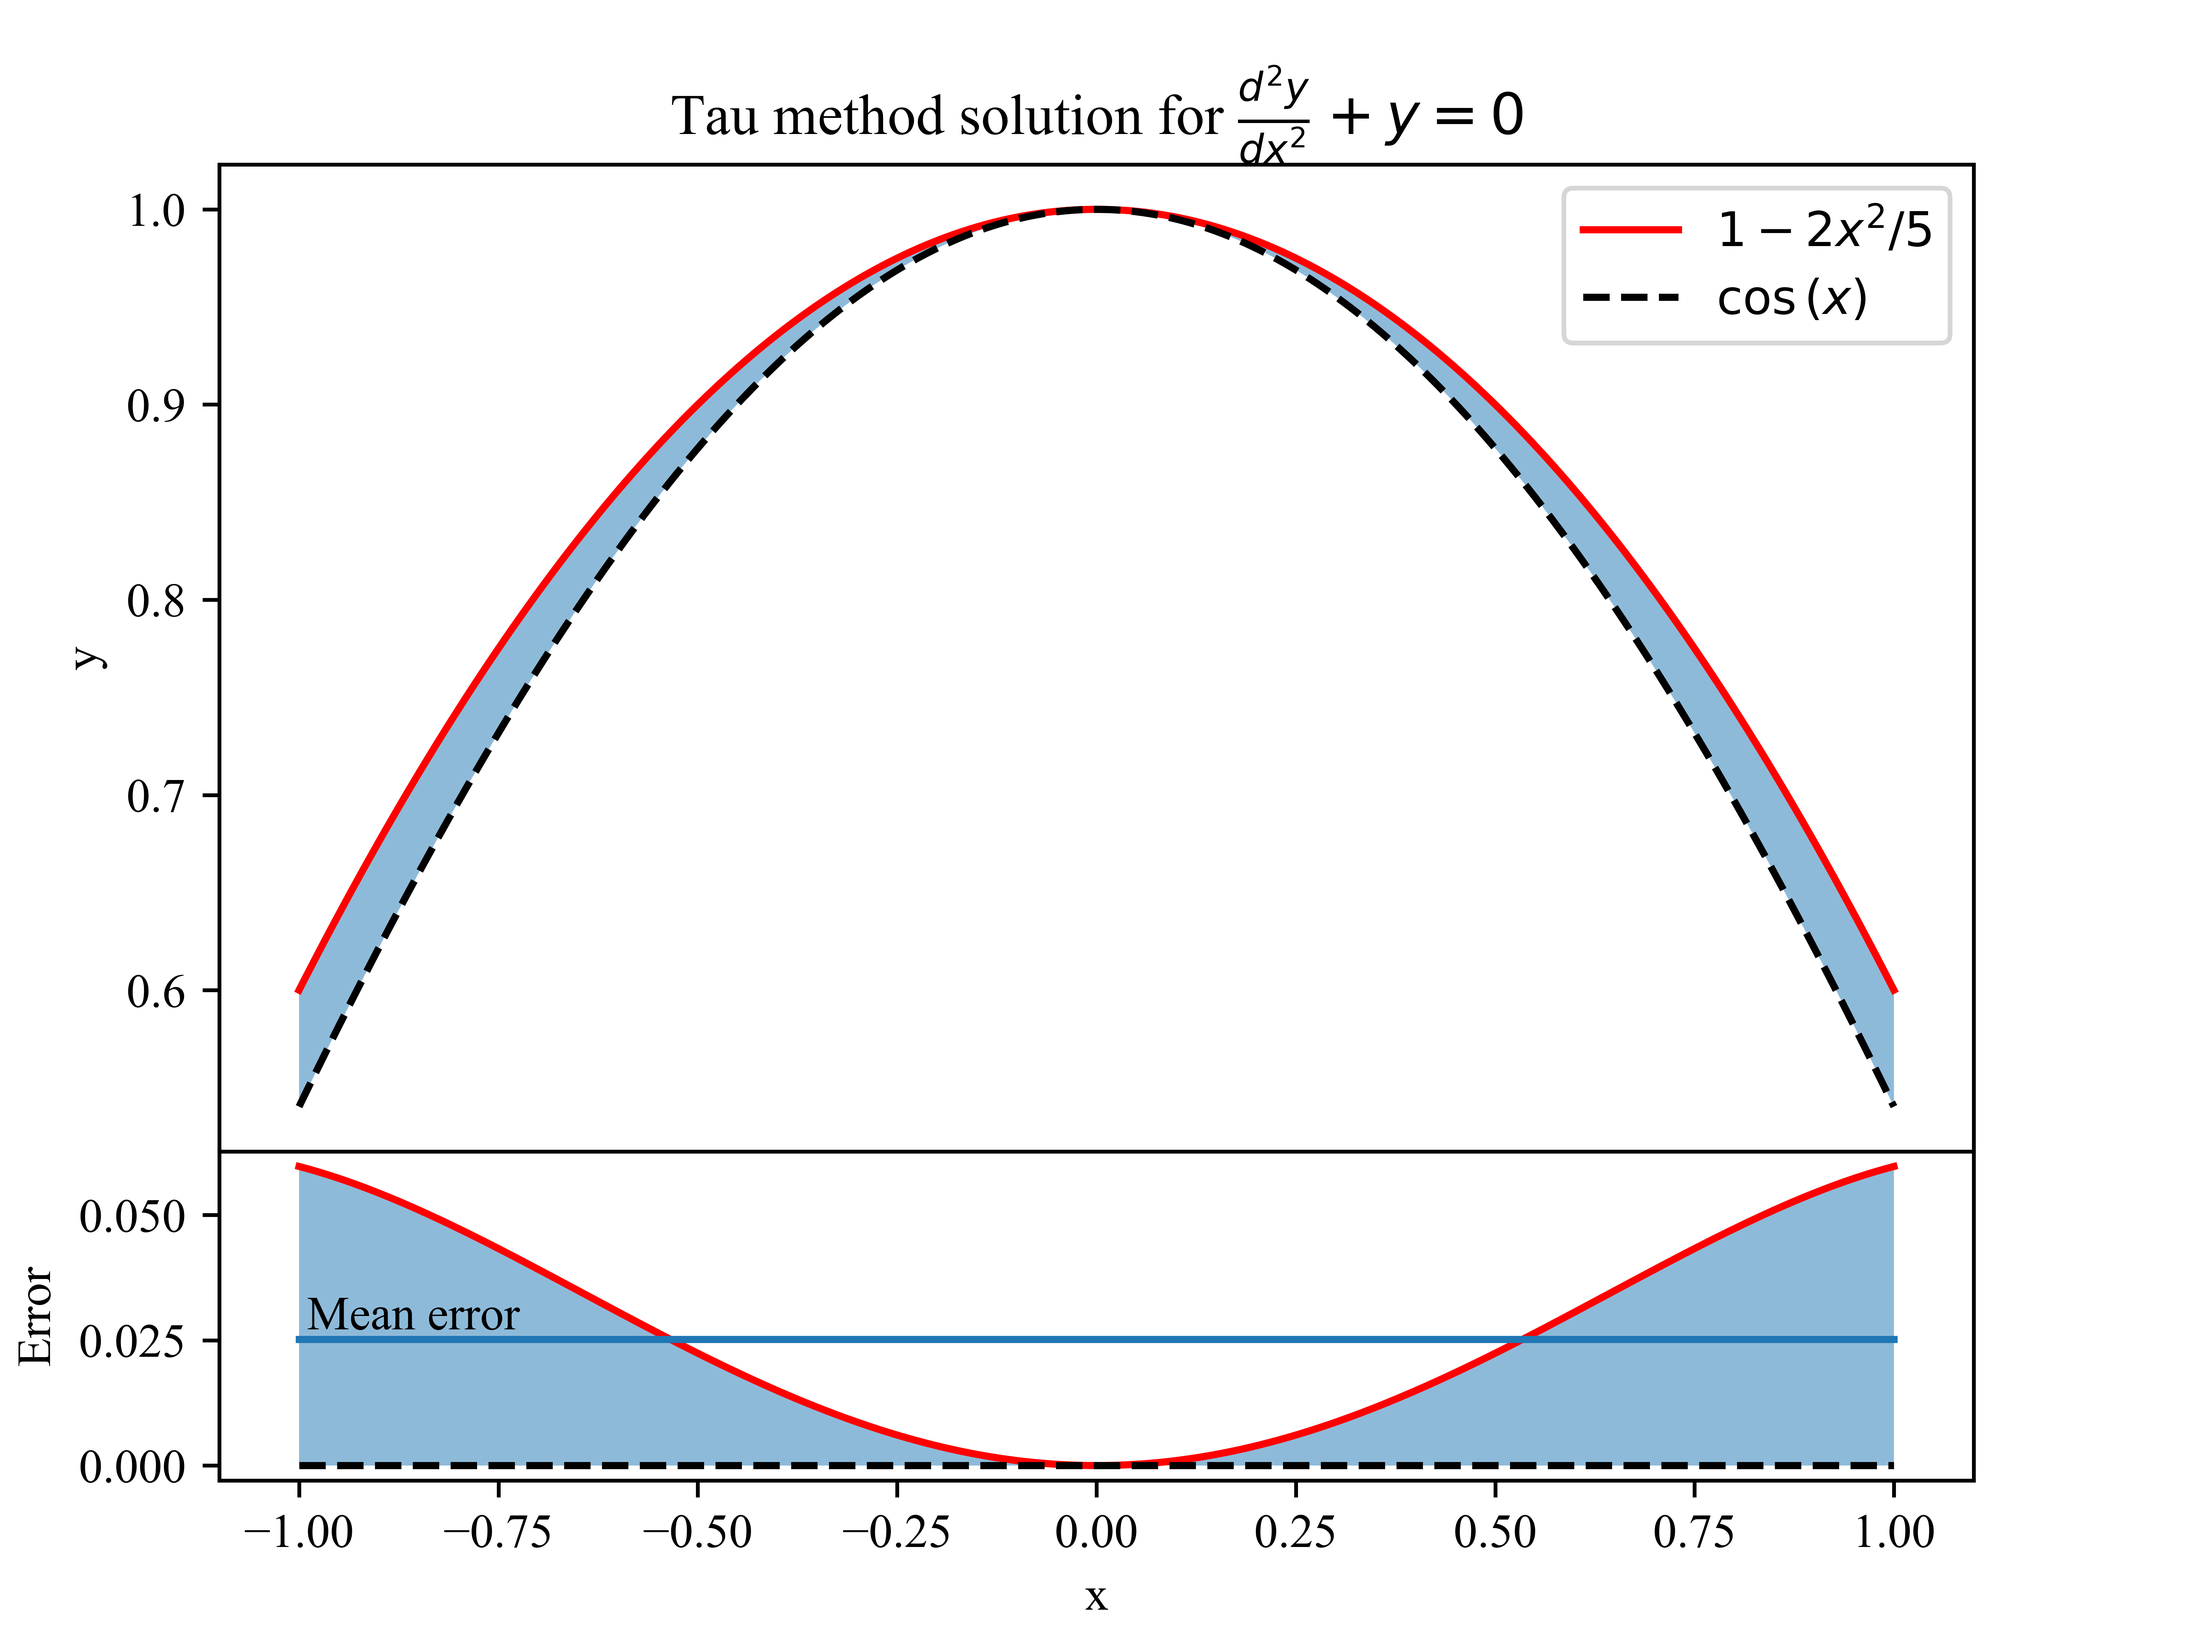
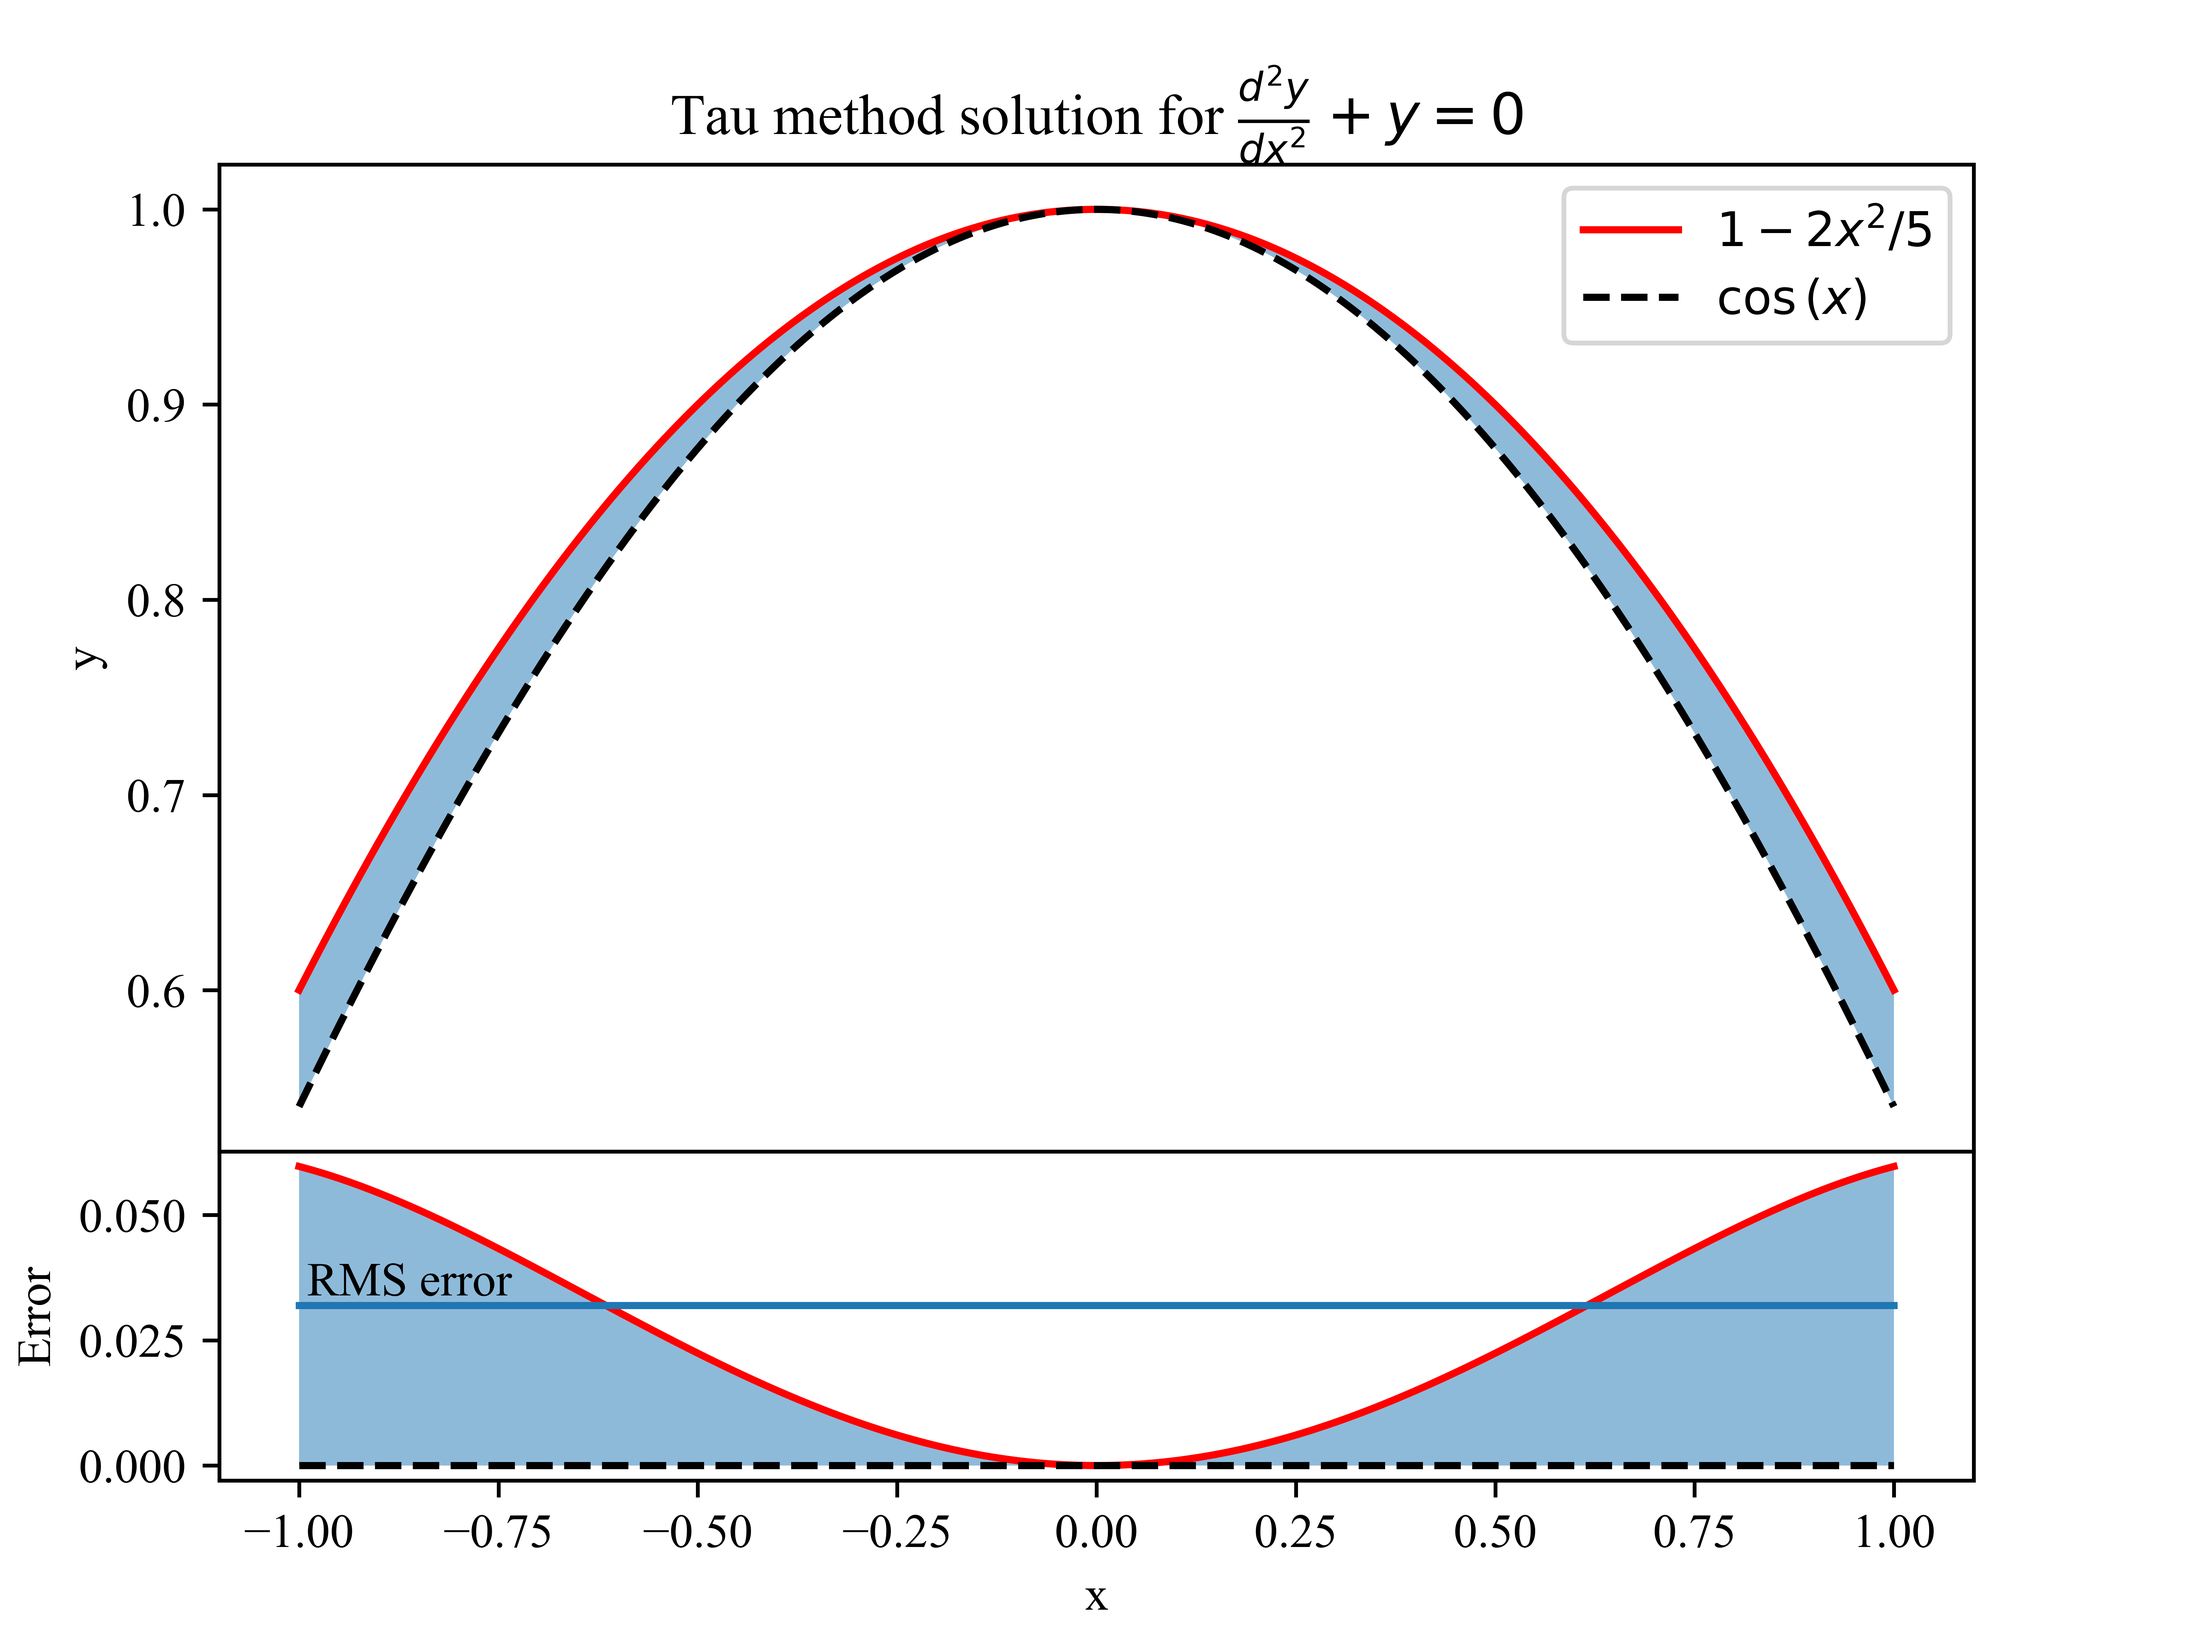
Fixed errors to be RMSE

Changed region(s): [[0.125, 0.75, 0.875, 0.8438]]

diff --git a/Cosine_approx.py b/Cosine_approx.py
@@ -4,6 +4,8 @@ from numpy.polynomial.chebyshev import chebvander
 from scipy.integrate import quad
 from scipy.optimize import curve_fit
 
+plt.rcParams["font.family"] = "Times New Roman"
+
 n = 2
 x_j = np.array([0, 0])
 alpha_j = np.array([0, 1])
@@ -45,9 +47,9 @@ def solve(N, x_y):
         return a_i @ chebvander(ts, N - 1).T
 
     def approx_err(x):
-        return approx(x) - np.cos(x)
+        return (approx(x) - np.cos(x))**2
 
-    mean_err = quad(approx_err, 0, 1)[0]
+    mean_err = np.sqrt(quad(approx_err, 0, 1)[0])
 
     if x_y:
         return x, approx(x), mean_err
@@ -64,12 +66,18 @@ def solve(N, x_y):
 # plt.plot(x, np.cos(x))
 # plt.show()
 
+def sf(x, sig_figs):
+    leading_order = 10**int(np.floor(np.log10(np.abs(x))))
+    terms = np.round(x/leading_order, sig_figs)
+    return terms*leading_order
+
+
 
 # U_N plot
 plt.figure()
 plt.semilogy()
 
-Ns = np.arange(2, 30)
+Ns = np.arange(2, 250)
 solves = np.vectorize(solve)
 mean_err_n = solves(Ns, x_y=False)
 
@@ -86,20 +94,40 @@ Ns = Ns[mask]
 mean_err_n = mean_err_n[mask]
 
 
-fp_err = 8
-print(mean_err_n[:fp_err])
+fp_err = 11
 a_fit, b_fit = curve_fit(exp_fit_log, Ns[:fp_err], np.log(mean_err_n[:fp_err]))[0]
 
-N_cont = np.array([Ns[0], Ns[fp_err]])
-label = str(round(a_fit, 2)) + r" $exp($" + str(-round(b_fit, 2)) + r"$N)$"
+print("Error half life = " + str(np.log(2)/b_fit))
+print("Decay = " + str(100 - 100*np.exp(-b_fit)) + "%")
+
+N_exp = np.array([Ns[0], Ns[fp_err]])
+label_exp = str(sf(a_fit, 2)) + r" $exp($" + str(-sf(b_fit, 2)) + r"$N)$"
 
 plt.plot(
-    N_cont, exp_fit(N_cont, a_fit, b_fit), label=label, linestyle="--", color="black"
+    N_exp, exp_fit(N_exp, a_fit, b_fit), label=label_exp, linestyle="--", color="black"
 )
+
+a_round, b_round = curve_fit(exp_fit_log, Ns[fp_err:], np.log(mean_err_n[fp_err:]))[0]
+
+N_round = np.array([Ns[fp_err], Ns[-1]])
+label_round = str(sf(a_round, 2)) + r" $exp($" + str(-sf(b_round, 2)) + r"$N)$"
+
+plt.plot(
+    N_round, exp_fit(N_round, a_round, b_round), label=label_round, linestyle=":", color="black"
+)
+
+
 plt.scatter(Ns, mean_err_n, color="red")
 
+midway_exp = np.sqrt(mean_err_n[0]*mean_err_n[fp_err])
+midway_round = np.sqrt(mean_err_n[fp_err]*mean_err_n[-1])
+
+plt.text(fp_err+10, midway_exp, "Exponential convergence")
+plt.text(0.5*(fp_err + Ns[-1])-15, midway_round*10**1.5, "Round off error")
+
 plt.xlabel(r"$N$")
-plt.ylabel("Mean Approximation Error")
+plt.ylabel("RMS Error")
 plt.title(r"Error in $U_N$ approximation")
 plt.legend()
+plt.savefig("U_N_approx_cosine.png", dpi=1000)
 plt.show()

diff --git a/U_N_Tau.py b/U_N_Tau.py
@@ -1,0 +1,90 @@
+import matplotlib.pyplot as plt
+import numpy as np
+from numpy.polynomial.chebyshev import chebvander
+from scipy.integrate import quad
+
+plt.rcParams["font.family"] = "Times New Roman"
+
+n = 2
+x_j = np.array([0, 0])
+alpha_j = np.array([0, 1])
+d_j = np.array([1, 0])
+L = 10
+
+assert len(alpha_j) == n & len(alpha_j) == len(d_j)
+
+# ODE
+gamma = 0.5
+omega_0 = 2
+
+
+# [0, L]
+def diff_mat(alpha, N):
+    D_matrix_T = np.zeros((N, N))
+    k = np.arange(1, N, 2)
+
+    for i in k:
+        D_matrix_T += np.diagflat(np.arange(i, N), i)
+    D_matrix = D_matrix_T.T
+    D_matrix[:, 0] /= 2
+
+    D_matrix *= 4 / L
+    return np.linalg.matrix_power(D_matrix, alpha)
+
+
+def solve(N, x_y, Big_mat):
+    Big_mat[:, -1] = (diff_mat(alpha_j[0], N) @ chebvander(-1, N - 1).T)[:, 0]
+    Big_mat[:, -2] = (diff_mat(alpha_j[1], N) @ chebvander(-1, N - 1).T)[:, 0]
+
+    Big_mat_inv = np.linalg.inv(Big_mat)
+
+    column_vec = np.zeros(N)
+    column_vec[-1], column_vec[-2] = d_j[0], d_j[1]
+
+    a_i = column_vec @ Big_mat_inv
+
+    x = np.linspace(0, L, 250)
+
+    def approx(x):
+        ts = 2 * x / L - 1
+        return a_i @ chebvander(ts, N - 1).T
+    
+    def analytic(x):
+        decay = np.exp(-gamma*x)
+        oscillation = np.cos(omega_0*x)
+        return decay*oscillation
+
+    def approx_err(x):
+        return approx(x) - analytic(x)
+
+    mean_err = quad(approx_err, 0, 1)[0]
+
+    if x_y:
+        return x, approx(x), mean_err
+    else:
+        return mean_err
+
+
+# U_3 plot
+N = 50
+ODE = diff_mat(2, N) + 2 * gamma * diff_mat(1, N) + omega_0**2 * np.eye(N)
+x, y, mean_err = solve(N, x_y=True, Big_mat=ODE)
+print(mean_err)
+exp_decay = np.exp(-gamma * x)
+
+
+plt.figure()
+
+plt.plot(x, exp_decay, linestyle="--", color="black", label=r"$y = e^{-\gamma x}$")
+plt.plot(x, -exp_decay, linestyle="--", color="black")
+plt.fill_between(x, -exp_decay, exp_decay, alpha=0.5, color="blue")
+plt.plot(x, y, color="red", label="Damped oscillator")
+
+# plt.title(r"$y'' + $" + str(2 * gamma) + r"$y' + $" + str(omega_0**2) + r"$y = 0$")
+plt.title(r"$\gamma = $" + str(gamma) + ", " + r"$\omega_0 = $" + str(omega_0))
+plt.legend()
+plt.xlabel("x")
+plt.ylabel("y")
+
+plt.savefig("Classical_damped.png", dpi=1000)
+plt.show()

diff --git a/Deviation.py b/Deviation.py
@@ -119,8 +119,9 @@ if plotD:
 
     # Mean error
 
-    mean_err = quad(lambda x: (Tau(x) - np.cos(x)), -1, 1)[0]/2
-    print(mean_err)
+    MS_err = quad(lambda x: (Tau(x) - np.cos(x))**2, -1, 1)[0]/2
+    RMS_err = np.sqrt(MS_err)
+    print(RMS_err)
 
     # Plotting
 
@@ -140,12 +141,12 @@ if plotD:
     plt.plot(x, Tau_y - cos_y, color="r")
     plt.plot(x, np.zeros_like(x), linestyle="--", color="black")
     plt.fill_between(x, Tau_y-cos_y, np.zeros_like(x), alpha=0.5)
-    plt.plot(x, mean_err*np.ones_like(x), label="Mean error")
+    plt.plot(x, RMS_err*np.ones_like(x))
 
     plt.xlabel("x")
     plt.ylabel("Error")
 
-    plt.text(-1 + 0.01, mean_err + 0.002, "Mean error")
+    plt.text(-1 + 0.01, RMS_err + 0.002, "RMS error")
 
     if Save_figure:
         plt.savefig("u3.png", dpi=1000)
